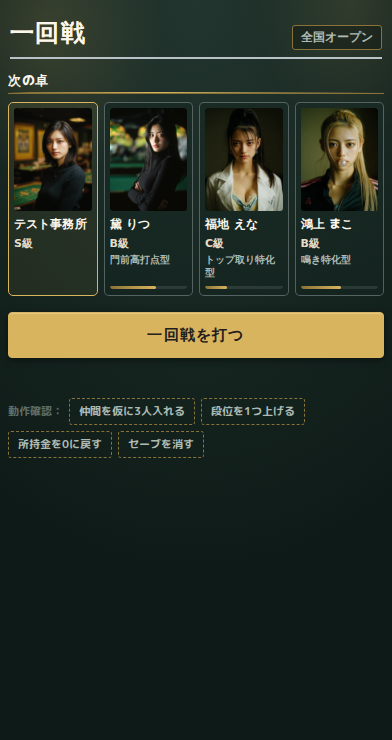
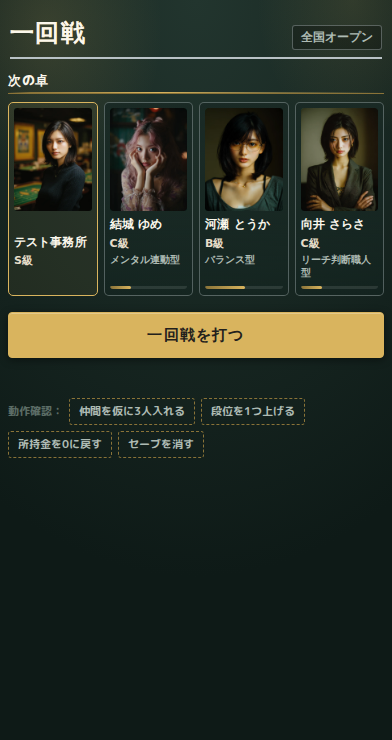
taikai: 決勝卓を別扱いにする（段3・§5 と §5.1）
見出しを大きく大会の色で、賞金を再掲（**梯子は出さない**——ここが最後なので
先が無い）、釦は「決勝卓へ」。②の勝ち上がりは決勝でも出す
——四人で入って何人残ったかが読める唯一の場所。

**カードは「顔が主、文字が従」**（§5.1）。顔をカードいっぱいに使い、
名前と級は顔の下端に重ねる。打ち筋と完成度バーは出さない
——ここまで三回戦を打って来た相手なので、能力の数字はもう要らない。

**`cardHTML` には分岐を足していない。**`.tkBridge.final` の CSS だけで
組み替える。三通りのカードを組むと、直すたびに三か所を見ることになる。
`tools/test-taikai-round.js` が「`cardHTML` が見る opts は `mine` と `why` だけ」
を錠にしている。

急所を三つ踏んだ。

- **名前は絶対配置にしない。**`margin-top:auto` で下端へ寄せる
  ——絶対配置だと、名前が二行になったときに級と重なる
- **A の `tkBare` は決勝では効かせない。**顔の下端に重ねるので真ん中へ
  寄せると顔の中に浮く。消すのは級の下の `auto` だけ（名前の
  `margin-top:auto` は決勝でも同じものが要る）
- **膜だけでは字が沈む。**四方に1pxの暗い影を足した（ホワイトボードの字と
  同じ手）。下帯がいちばん明るい四枚（098 / 161 / 089 / 181）を
  `PIL` で選んで当てて確かめた。13px だと六文字の名前が折れたので 12.5px に

Claude-Session: https://claude.ai/code/session_01AX5aFTuNsfivY3CQvf2NC5

diff --git a/tools/drive-taikai-round.js b/tools/drive-taikai-round.js
@@ -85,6 +85,26 @@ const viewOf = (p) => p.evaluate(() => ({
   })),
   tier: document.querySelector('.tkRoot').dataset.tier || null,
   hold: document.body.classList.contains('tkHold'),
+  final: !!document.querySelector('.tkBridge.final'),
+  prize: ((document.querySelector('.tkStakes .tkPrizeBig b') || {}).textContent || '').trim(),
+  ladder: document.querySelectorAll('.tkLadder li').length,
+  /* 決勝卓のカードの実測（§5・E）。**顔がカードいっぱいか**、
+     **打ち筋と完成度バーが出ていないか**を計算後の値で見る */
+  shape: (() => {
+    const cs = Array.from(document.querySelectorAll('.tkCards .tkCard'));
+    if (!cs.length) return null;
+    const c = cs[0];
+    /* **打ち筋と完成度バーは自分のカードには元から無い**（`tkBare`）。
+       出す・出さないを見るには**仲間か相手のカード**を取ること */
+    const other = cs.find((x) => !x.classList.contains('tkBare')) || cs[1] || c;
+    const g = (sel) => { const e = other.querySelector(sel); return e ? getComputedStyle(e).display : null; };
+    return {
+      /* 縁のぶんを外して測る（`.mine` は 2px なので、外枠だと必ず食い違う） */
+      cardH: c.clientHeight,
+      faceH: Math.round(c.querySelector('.tkFace').getBoundingClientRect().height),
+      style: g('.tkCardStyle'), track: g('.tkTrack'), cond: g('.tkCond'),
+    };
+  })(),
   result: !!document.querySelector('.tkChampion'),
   rounds: !!document.querySelector('.tkRound'),
 }));
@@ -183,6 +203,24 @@ const install = (p, winRounds) => p.evaluate((wins) => {
     const r3 = await viewOf(p);
     eq(r3.title, '決勝卓', '決勝卓の中継が出る');
     eq(r3.rest, '残り4名', '決勝卓は残り4名');
+    /* ---- 段3（§5・E）---- */
+    ok(r3.final, '決勝卓は .tkBridge.final');
+    ok(!r1.final && !r2.final, '通常の回戦には final が付かない');
+    eq(r3.go, '決勝卓へ', '釦は「決勝卓へ」');
+    ok(r3.up, '②の勝ち上がりは決勝でも出す（四人で入って何人残ったかが読める）');
+    ok(/^[\d,]+円$/.test(r3.prize), '賞金を再掲する', r3.prize);
+    ok(!r1.prize && !r2.prize, '通常の回戦では賞金を出さない', r1.prize + '/' + r2.prize);
+    eq(r3.ladder, 0, '梯子は出さない（ここが最後なので先が無い）');
+    /* **顔がカードいっぱい**（E）。上半分だけの通常のカードと分ける */
+    ok(r3.shape.faceH === r3.shape.cardH,
+      '決勝は顔がカードいっぱい', JSON.stringify(r3.shape));
+    ok(r2.shape.faceH < r2.shape.cardH * 0.8,
+      '通常の回戦は顔が上半分だけのまま', JSON.stringify(r2.shape));
+    /* **打ち筋と完成度バーは出さない**（E）。三回戦打って来た相手なので数字は要らない */
+    eq([r3.shape.style, r3.shape.track], ['none', 'none'],
+      '決勝は打ち筋・完成度バーを出さない');
+    eq([r2.shape.style, r2.shape.track], ['block', 'block'],
+      '通常の回戦では出したまま');
     await shot(p, 'round-3');
 
     await p.click('[data-act="round-go"]');

diff --git a/src/taikai.css b/src/taikai.css
@@ -281,6 +281,62 @@
   border-top:1px solid rgba(201,162,74,.15);padding-top:5px;
 }
 
+/* ---------- 決勝卓（round-spec.md §5・E） ----------
+   同じ骨格のまま、**顔が主・文字が従**に組み替える。
+   **`cardHTML` には分岐が無い。**ここの CSS だけで別物にする */
+
+/* ① 見出しを大きく、大会の色を効かせる */
+.tkBridge.final .tkFieldHead{border-bottom-width:3px;padding-bottom:9px}
+.tkBridge.final .tkTitle{font-size:30px;color:var(--tk-accent);letter-spacing:.1em}
+
+/* ③ 顔をカードいっぱいに。**打ち筋と完成度バーは出さない**——
+   ここまで三回戦を打って来た相手なので、能力の数字はもう要らない。
+   残った三人が誰かだけが要る */
+.tkBridge.final .tkCard{
+  position:relative;aspect-ratio:5/8;padding:0;gap:0;overflow:hidden;
+}
+.tkBridge.final .tkFace{
+  position:absolute;inset:0;aspect-ratio:auto;border-radius:0;
+}
+.tkBridge.final .tkCardStyle,
+.tkBridge.final .tkCard .tkTrack,
+.tkBridge.final .tkCond{display:none}
+
+/* 名前と級は顔の下端に重ねる。**膜を一枚敷いてから載せる**
+   ——明るいポートレートでは、字だけ置くと沈む */
+.tkBridge.final .tkCard::after{
+  content:"";position:absolute;left:0;right:0;bottom:0;height:58%;z-index:1;
+  background:linear-gradient(rgba(8,16,14,0) 0%,rgba(8,16,14,.5) 40%,rgba(8,16,14,.94) 100%);
+  pointer-events:none;
+}
+/* 下端へ寄せるのは `margin-top:auto`（絶対配置にしない）。
+   **名前が二行になっても級と重ならない**ため */
+/* **顔が主なので、字は詰める。**13px だと 4列（1枚 89px）で六文字の名前が
+   折れて「テスト事務／所」になった */
+.tkBridge.final .tkCard .tkCardName{
+  margin-top:auto;position:relative;z-index:2;
+  padding:0 5px;font-size:12.5px;line-height:1.25;color:#fff;letter-spacing:0;
+}
+.tkBridge.final .tkCardSub{
+  position:relative;z-index:2;padding:1px 5px 6px;
+}
+.tkBridge.final .tkCardSub b{color:var(--ivory)}
+/* **膜の上でも沈まないように、四方に1pxの暗い影**（ホワイトボードの字と同じ手）。
+   ぼかしだけだと、白っぽい服や明るい壁のところで輪郭が消える */
+.tkBridge.final .tkCardName,
+.tkBridge.final .tkCardSub b{
+  text-shadow:1px 1px 0 rgba(0,0,0,.9),-1px 1px 0 rgba(0,0,0,.9),
+              1px -1px 0 rgba(0,0,0,.9),-1px -1px 0 rgba(0,0,0,.9),
+              0 2px 7px rgba(0,0,0,.95);
+}
+/* **A の縦中央（`tkBare`）は決勝では効かせない。**名前と級を顔の下端に
+   重ねるので、真ん中へ寄せると顔の中に浮く。名前の `margin-top:auto` は
+   決勝でも同じものが要るので、消すのは級の下の `auto` だけ */
+.tkBridge.final .tkCard.tkBare .tkCardSub{margin-bottom:0}
+
+/* 自分のカードは決勝でも金の縁。**地の色は敷かない**（顔が全面なので見えない） */
+.tkBridge.final .tkCard.mine{border-color:var(--gold);border-width:2px}
+
 /* ---------- 進行 ---------- */
 .tkRound{margin-bottom:16px}
 .tkRoundT{

diff --git a/src/taikai.js b/src/taikai.js
@@ -866,15 +866,28 @@ const Taikai = (() => {
       const seats = info.table.filter((c) => c.id === 0)
         .concat(info.table.filter((c) => c.id !== 0));
       const cards = seats.map((c) => cardHTML(c, { mine: c.id === 0 })).join('');
+      /* **決勝卓だけ賞金を再掲する**（§5）。出走表で見たきり、ここまで一度も
+         出ていない。**梯子は出さない**——ここが最後なので、もう先が無い */
+      const prize = info.isFinal ? `<div class="tkStakes">
+        <div class="tkPrizeBig"><span class="tkPrizeBigL">優勝</span>
+          <b>${yen(prepared.tier.prize)}</b></div>
+      </div>` : '';
+      /* **決勝卓の見せ方は `.tkBridge.final` の CSS だけで組み替える**（§5・E）。
+         `cardHTML` に分岐を増やさない——出走表と中継と決勝で三通りの
+         カードを組むことになり、直すたびに三か所を見ることになる */
       root.innerHTML = `
-        <div class="tkHead tkFieldHead"><h1 class="tkTitle">${esc(info.name)}</h1>
-          <div class="tkStatus"><span class="tkStat">${esc(prepared.tier.name)}</span></div></div>
-        ${bridgeUp(info)}
-        <section class="tkFieldSec">
-          <h2 class="tkSecT">次の卓</h2>
-          <div class="tkCards">${cards}</div>
-        </section>
-        <button type="button" class="tkGo" data-act="round-go">${esc(info.name)}を打つ</button>`;
+        <div class="tkBridge${info.isFinal ? ' final' : ''}">
+          <div class="tkHead tkFieldHead"><h1 class="tkTitle">${esc(info.name)}</h1>
+            <div class="tkStatus"><span class="tkStat">${esc(prepared.tier.name)}</span></div></div>
+          ${bridgeUp(info)}
+          ${prize}
+          <section class="tkFieldSec">
+            <h2 class="tkSecT">次の卓</h2>
+            <div class="tkCards">${cards}</div>
+          </section>
+          <button type="button" class="tkGo" data-act="round-go">${
+            info.isFinal ? '決勝卓へ' : esc(info.name) + 'を打つ'}</button>
+        </div>`;
     }
 
     /* 卓に入るまでのつなぎ。**中継を渡すときにも必ずこれを出す**——

diff --git a/tools/test-taikai-round.js b/tools/test-taikai-round.js
@@ -324,6 +324,30 @@ async function withResume(rec, fn) {
     same(acts, ['data-act="round-go"'], '中継の押せる口は round-go 一つだけ');
   }
 
+  /* ============================================================
+     8. 決勝卓は CSS だけで組み替える（§5・E）
+
+     **`cardHTML` に分岐を増やさない。**出走表と中継と決勝で三通りのカードを
+     組むことになり、直すたびに三か所を見ることになる
+     ============================================================ */
+  {
+    const card = (TK.match(/const cardHTML = \(c, o\) => \{[\s\S]*?\n    \};/) || [''])[0];
+    ok(card.length > 100, 'cardHTML が読めた', String(card.length));
+    ok(!/isFinal|final/.test(card), 'cardHTML に決勝卓の分岐が無い（CSS だけで組み替える）');
+    /* 渡せるのは `mine` と `why` の二つだけ */
+    const keys = Array.from(new Set((card.match(/\bo\.[a-zA-Z]+/g) || [])));
+    same(keys.sort(), ['o.mine', 'o.why'], 'cardHTML が見る opts は mine と why だけ');
+
+    /* 決勝の見せ方は `.tkBridge.final` の側に全部あること */
+    const CSS = rd('src/taikai.css');
+    ['\\.tkBridge\\.final \\.tkFace', '\\.tkBridge\\.final \\.tkCard'].forEach((re) => {
+      ok(new RegExp(re).test(CSS), 'CSS に ' + re.replace(/\\\\/g, '') + ' がある');
+    });
+    /* **A の `tkBare` を決勝で打ち消していること**（顔に重なるので縦中央にしない） */
+    ok(/\.tkBridge\.final \.tkCard\.tkBare \.tkCardSub\{[^}]*margin-bottom:0/.test(CSS),
+      '決勝では tkBare の縦中央を効かせない');
+  }
+
   /* ------------------------------------------------------------ */
   if (fails.length) {
     console.log(pass + ' 件通過、' + fails.length + ' 件失敗');

diff --git a/index.html b/index.html
@@ -11,7 +11,7 @@
 <link rel="stylesheet" href="src/title.css?v=50212c56">
 <link rel="stylesheet" href="src/meikan.css?v=4d26b349">
 <link rel="stylesheet" href="src/team.css?v=5b51958b">
-<link rel="stylesheet" href="src/taikai.css?v=e911f603">
+<link rel="stylesheet" href="src/taikai.css?v=61eee247">
 <link rel="stylesheet" href="src/scout.css?v=ece27472">
 <link rel="stylesheet" href="src/office.css?v=72394628">
 <link rel="stylesheet" href="src/jansou.css?v=d1597733">
@@ -166,7 +166,7 @@ body.inMatch #matchRoot{flex:1;min-height:0}
 <script src="src/title.js?v=33808ebe"></script>
 <script src="src/meikan.js?v=8d44e517"></script>
 <script src="src/team.js?v=8a677ba5"></script>
-<script src="src/taikai.js?v=00f88ff4"></script>
+<script src="src/taikai.js?v=15374a7b"></script>
 <script src="src/scout.js?v=57d0fadf"></script>
 <script src="src/jansou-guests.js?v=784a4250"></script>
 <script src="src/jansou-floor.js?v=423482f6"></script>

diff --git a/docs/design/taikai/round-spec.md b/docs/design/taikai/round-spec.md
@@ -155,16 +155,46 @@ opts.onRoundStart?  … async (info) => void。待つ。無ければ何もしな
 
 ## §5 決勝卓
 
-同じ骨格のまま、**三つだけ変える。**
+同じ骨格のまま、**四つだけ変える。**
 
 - 見出しを大きく、`--tk-accent` を効かせる
 - 顔を大きく（`.tkBridge.final .tkFace`）。四人を横一列に
-- 賞金を再掲する（`優勝 3,000,000円`）。出走表で見たきり、ここまで一度も出ていない
+- 賞金を再掲する（`優勝 3,000,000円`）。出走表で見たきり、ここまで一度も出ていない。
+  **梯子は出さない**——ここが最後なので、もう先が無い
+- **カードを「顔が主、文字が従」に組み替える**（§5.1）
 
 釦は「**決勝卓へ**」。
 
 ②の勝ち上がりは決勝でも出す。ここが一番効く——
 四人で入って一人だけ残った、が読める唯一の場所になる。
+
+### §5.1 顔が主、文字が従
+
+通常の中継の `tkCard` は 顔・名前・級・打ち筋・完成度バー が縦に積まれ、
+顔は上半分だけ。決勝では**顔をカードいっぱいに使い、名前と級は顔の下端に重ねる。
+打ち筋と完成度バーは出さない。**
+
+ここまで三回戦を打って来た相手なので、能力の数字はもう要らない。
+**残った三人が誰かだけが要る。**
+
+**実装は `tkCard` の使い回しのまま、`.tkBridge.final` の CSS だけで組み替える。
+`cardHTML` に分岐を増やさない**——出走表と中継と決勝で三通りのカードを組むことになり、
+直すたびに三か所を見ることになる。`tools/test-taikai-round.js` が
+「`cardHTML` が見る opts は `mine` と `why` だけ」を錠にしている。
+
+急所：
+
+- **名前は絶対配置にしない。**`margin-top:auto` で下端へ寄せる
+  ——絶対配置だと、名前が二行になったときに級と重なる
+- **A の `tkBare`（縦中央）は決勝では効かせない。**顔の下端に重ねるので、
+  真ん中へ寄せると顔の中に浮く。消すのは**級の下の `auto` だけ**
+  （名前の `margin-top:auto` は決勝でも同じものが要る）
+- **膜を一枚敷いてから字を載せる。**明るいポートレートでは、字だけ置くと沈む。
+  膜に加えて**四方に1pxの暗い影**（ホワイトボードの字と同じ手）——
+  ぼかしだけだと、白い服や明るい壁のところで輪郭が消える。
+  下帯がいちばん明るい四枚（`098` `161` `089` `181`）で確かめること
+- **字は詰める。**13px だと4列（1枚 89px）で六文字の名前が折れて
+  「テスト事務／所」になった
 
 ---
 
@@ -269,7 +299,10 @@ opts.onRoundStart?  … async (info) => void。待つ。無ければ何もしな
 `autoMatch` を「自動で処理」にすると**出ないこと**。
 自分が一回戦で落ちたあと、準決勝と決勝卓で**出ないこと**。
 
-**段3 — 決勝卓（§5）。**
+**段3 — 決勝卓（§5・§5.1）。**顔がカードいっぱいになること、
+打ち筋と完成度バーが出ないこと、賞金が再掲されること、釦が「決勝卓へ」。
+**実機で見るのは一点——背景の明るいポートレートで名前が沈んでいないか。**
+沈んでいたら顔の下に出す形へ戻す。
 
 **段4 — 釦の文言（§6）。**通常の回戦で「次の回戦へ」、決勝卓で「結果へ」。
 
